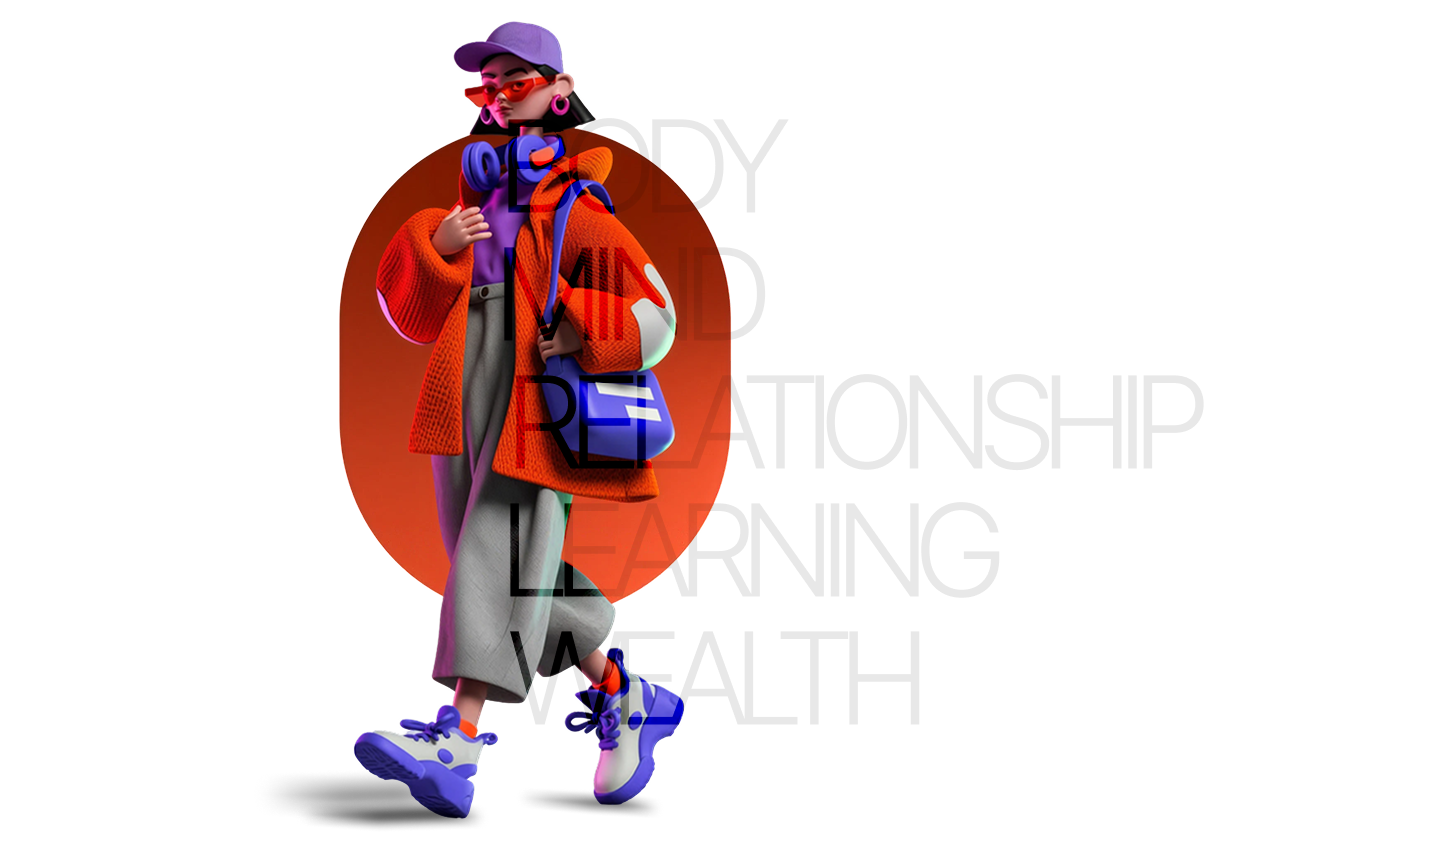
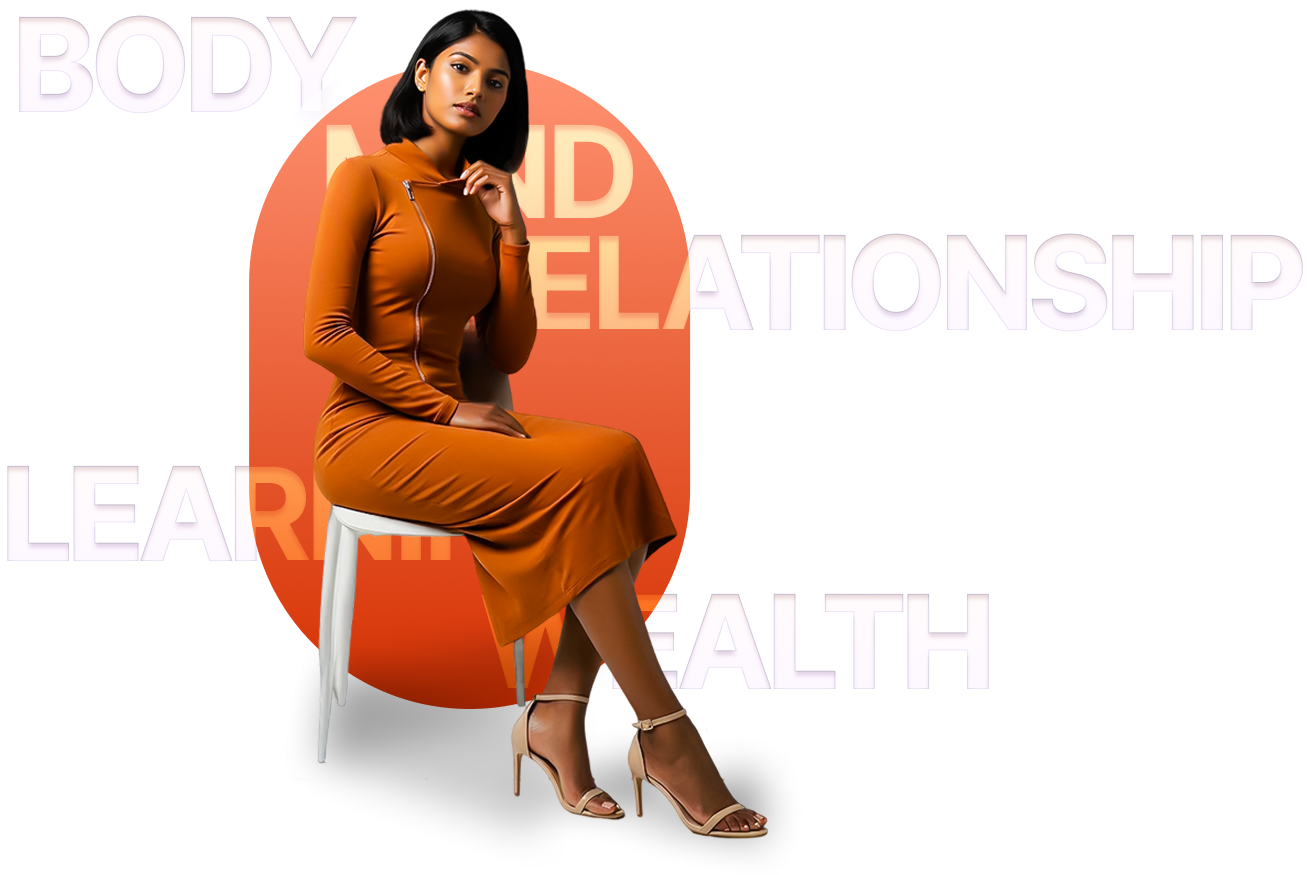
Refactor code structure for improved readability and maintainability

diff --git a/components/Testimonials.tsx b/components/Testimonials.tsx
@@ -28,7 +28,7 @@ function TestimonialCard({ src, video }: Omit<Testimonial, "id">) {
 
   return (
     <div
-      className="group relative flex h-[410px] w-[273px] shrink-0 items-center justify-center overflow-hidden rounded-[24px] bg-neutral-200 transition-transform duration-300 ease-out hover:z-10  hover:shadow-[0_20px_45px_rgba(0,0,0,0.25)]"
+      className="group relative flex h-[400px] w-[270px] shrink-0 items-center justify-center overflow-hidden rounded-[24px] bg-neutral-200 transition-transform duration-300 ease-out hover:z-10  hover:shadow-[0_20px_45px_rgba(0,0,0,0.25)]"
       onMouseEnter={() => {
         setHovered(true);
         videoRef.current?.play();
@@ -75,9 +75,9 @@ export default function Testimonials() {
   const [paused, setPaused] = useState(false);
 
   return (
-    <section id="stories" className="scroll-mt-30 overflow-hidden px-6 py-16 md:px-[50px] md:py-[10px]">
+    <section id="stories" className="scroll-mt-30 overflow-hidden px-6 py-6 md:px-[50px] md:py-[10px]">
       <div className="mx-auto max-w-[1440px] text-center">
-        <h2 className="font-display text-[32px] font-medium tracking-[0.64px] text-ink md:text-[32px] md:tracking-[1.2px]">
+        <h2 className="font-display text-[28px] font-medium tracking-[0.64px] text-ink md:text-[32px] md:tracking-[1.2px]">
           Real Stories. Real Transformation.
         </h2>
         <p className="mx-auto max-w-2xl font-body text-[16px] text-ink/60 md:text-[16px]">
@@ -86,7 +86,7 @@ export default function Testimonials() {
 
         <div className="relative mt-16 [mask-image:linear-gradient(to_right,transparent,black_5%,black_95%,transparent)]">
           <div
-            className="animate-marquee flex w-max gap-6"
+            className="animate-marquee flex w-max gap-4"
             style={{ animationPlayState: paused ? "paused" : "running" }}
             onMouseEnter={() => setPaused(true)}
             onMouseLeave={() => setPaused(false)}

diff --git a/components/stopswitching/StopSwitching.css b/components/stopswitching/StopSwitching.css
@@ -49,8 +49,8 @@
 .ss-heading {
   color: #000;
   word-break: break-word;
-  font-size: 48px;
-  font-weight: 700;
+  font-size: 32px;
+  font-weight: 500;
   line-height: 1.1;
 }
 
@@ -60,7 +60,7 @@
   color: #747474;
   white-space: nowrap;
   font-size: 18px;
-  font-weight: 500;
+  font-weight: 400;
 }
 
 /* Download App button */
@@ -247,12 +247,12 @@
    ================================================ */
 @media (max-width: 1024px) {
   .ss-heading {
-    font-size: 44px;
+    font-size: 32px;
     letter-spacing: 0.8px;
   }
 
   .ss-subtitle {
-    font-size: 18px;
+    font-size: 16px;
   }
 
   .ss-collage {
@@ -336,13 +336,13 @@
 @media (min-width: 1025px) {
   .ss-heading {
     /* 48px matches the h2 size standardized across every other section */
-    font-size: 48px;
+    font-size: 32px;
     letter-spacing: 0.8px;
     font-weight: 500;
   }
 
   .ss-subtitle {
-    font-size: 19px;
+    font-size: 16px;
     font-weight: 400;
   }
 
@@ -431,7 +431,7 @@
   }
 
   .ss-heading {
-    font-size: 36px;
+    font-size: 32px;
     letter-spacing: 0.5px;
   }
 
@@ -531,17 +531,17 @@
   }
 
   .ss-heading {
-    font-size: 26px;
+    font-size: 28px;
     letter-spacing: 0;
   }
 
   .ss-subtitle {
-    font-size: 12px;
+    font-size: 13px;
   }
 
   .ss-badge {
-    font-size: 14px;
-    padding: 8px 16px;
+    font-size: 12px;
+    padding: 8px 12px;
   }
 
   .ss-download-btn {

diff --git a/components/Hero.tsx b/components/Hero.tsx
@@ -92,7 +92,7 @@ export default function Hero() {
         />
         <div className="absolute inset-0 -z-10 bg-gradient-to-t from-black/60 via-black/10 to-transparent" />
 
-        <div className="relative flex min-h-[450px] flex-col justify-between px-6 py-10 md:min-h-[650px] md:px-[50px] ">
+        <div className="relative flex min-h-[580px] flex-col justify-between px-6 py-10 md:min-h-[650px] md:px-[50px] ">
           {/* Top content */}
           <div className="max-w-[765px] mt-20 md:mt-12">
             <h1 className="font-display text-[42px] font-[500] leading-none tracking-[-1.08px] text-white md:hidden">
@@ -103,7 +103,7 @@ export default function Hero() {
             </h1>
 
             <div className="mt-8 inline-flex items-center justify-center rounded-[30px] bg-[rgba(42,42,42,0.5)] px-5 py-[5px] backdrop-blur-[10px] md:bg-[rgba(21,21,81,0.25)]">
-              <p className="font-body text-[10px] font-[400] tracking-[-0.24px] text-white md:font-[300] md:tracking-normal md:text-[19px]" >
+              <p className="font-body text-[12px] font-[400] tracking-[-0.24px] text-white md:font-[300] md:tracking-normal md:text-[19px]" >
                 Transform in one year. Together.
               </p>
             </div>

diff --git a/components/ThirtySuperHabits.tsx b/components/ThirtySuperHabits.tsx
@@ -106,13 +106,13 @@ function HabitChip({
 
 export default function ThirtySuperHabits() {
   return (
-    <section id="habits" className="scroll-mt-30 px-4 py-10 md:py-[10px]">
+    <section id="habits" className="scroll-mt-30 px-4 py-3 md:py-[10px]">
       <div className="mx-auto flex max-w-[1440px] flex-col items-center text-center">
         <div>
-          <h2 className="font-display text-[38px] font-medium tracking-[0.76px] text-ink md:text-[32px] md:tracking-[1.2px]">
+          <h2 className="font-display text-[28px] font-medium tracking-[0.76px] text-ink md:text-[32px] md:tracking-[1.2px]">
             30 Super Habits
           </h2>
-          <p className="mx-auto max-w-2xl font-body text-[16px] text-ink/60 md:text-[19px]">
+          <p className="mx-auto max-w-2xl font-body text-[16px] text-ink/60 md:text-[19px] mb-5">
             30 simple habits across 5 pillars that build your best life
           </p>
         </div>

diff --git a/components/Pricing.tsx b/components/Pricing.tsx
@@ -35,9 +35,9 @@ function CheckIcon({ color = "#131313" }: { color?: string }) {
 
 export default function Pricing() {
   return (
-    <section id="pricing" className="px-6 py-16 md:px-[50px] md:py-[3aa0px]">
+    <section id="pricing" className="px-6 py-16 md:px-[50px] md:py-[30px]">
       <div className="mx-auto max-w-[1440px] text-center">
-        <h2 className="font-display text-[32px] font-medium tracking-[0.64px] text-ink md:text-[32px] md:tracking-[1.2px]">
+        <h2 className="font-display text-[28px] font-medium tracking-[0.64px] text-ink md:text-[32px] md:tracking-[1.2px]">
           Your best year starts on January 1, 2027
         </h2>
         <p className="mx-auto mt-2 max-w-3xl font-body text-[16px] text-ink/60 md:text-[16px]">

diff --git a/components/Ecosystem.tsx b/components/Ecosystem.tsx
@@ -64,7 +64,7 @@ export default function Ecosystem() {
   return (
     <section id="how-it-works" className="scroll-mt-30 px-6 md:px-[20px]  lg:px-[20px]">
       <div className="mx-auto max-w-[1440px] text-center">
-        <h2 className="font-display text-[34px] font-medium tracking-[0.68px] text-ink md:text-[32px] md:tracking-[1.2px]">
+        <h2 className="font-display text-[28px] font-medium tracking-[0.68px] text-ink md:text-[32px] md:tracking-[1.2px]">
           How You Do It
         </h2>
         <p className="mx-auto max-w-2xl font-body text-[16px] text-ink/60 md:text-[16px]">

diff --git a/components/WhatIsSuperbae.tsx b/components/WhatIsSuperbae.tsx
@@ -165,7 +165,7 @@ export default function WhatIsSuperbae() {
   return (
     <section id="about" className="scroll-mt-30 px-6 py-10 md:px-[50px]">
       <div className="mx-auto max-w-[1440px] text-center">
-        <h2 className="font-display text-[36px] font-medium tracking-[0.72px] text-ink md:text-[32px] md:tracking-[1.2px]">
+        <h2 className="font-display text-[28px] font-medium tracking-[0.72px] text-ink md:text-[32px] md:tracking-[1.2px]">
           What is Superbae
         </h2>
         <p className="mx-auto max-w-2xl font-body text-[16px] text-ink/60 md:text-[18px]">

diff --git a/components/Highlights.tsx b/components/Highlights.tsx
@@ -73,7 +73,7 @@ export default function Highlights() {
 
         <div className="relative flex flex-col items-center gap-10 px-6 py-14 text-center md:px-16 md:py-20">
           <div>
-            <h2 className="font-display text-[38px] font-medium tracking-[0.76px] text-white md:text-[32px] md:tracking-[1.2px]">
+            <h2 className="font-display text-[28px] font-medium tracking-[0.76px] text-white md:text-[32px] md:tracking-[1.2px]">
               Goa Retreat
             </h2>
             <p className="mx-auto max-w-2xl font-body text-[16px] text-white/80 md:text-[19px]">

diff --git a/components/FAQ.tsx b/components/FAQ.tsx
@@ -79,7 +79,7 @@ export default function FAQ() {
   return (
     <section id="faq" className="scroll-mt-30 px-6 py-16 md:px-[50px] md:py-[70px]">
       <div className="mx-auto max-w-[820px] text-center">
-        <h2 className="font-display text-[36px] font-medium tracking-[0.72px] text-ink md:text-[32px] md:tracking-[1.2px]">
+        <h2 className="font-display text-[28px] font-medium tracking-[0.72px] text-ink md:text-[32px] md:tracking-[1.2px]">
           FAQ
         </h2>
         <p className="mx-auto max-w-2xl font-body text-[16px] text-ink/60 md:text-[18px]">
